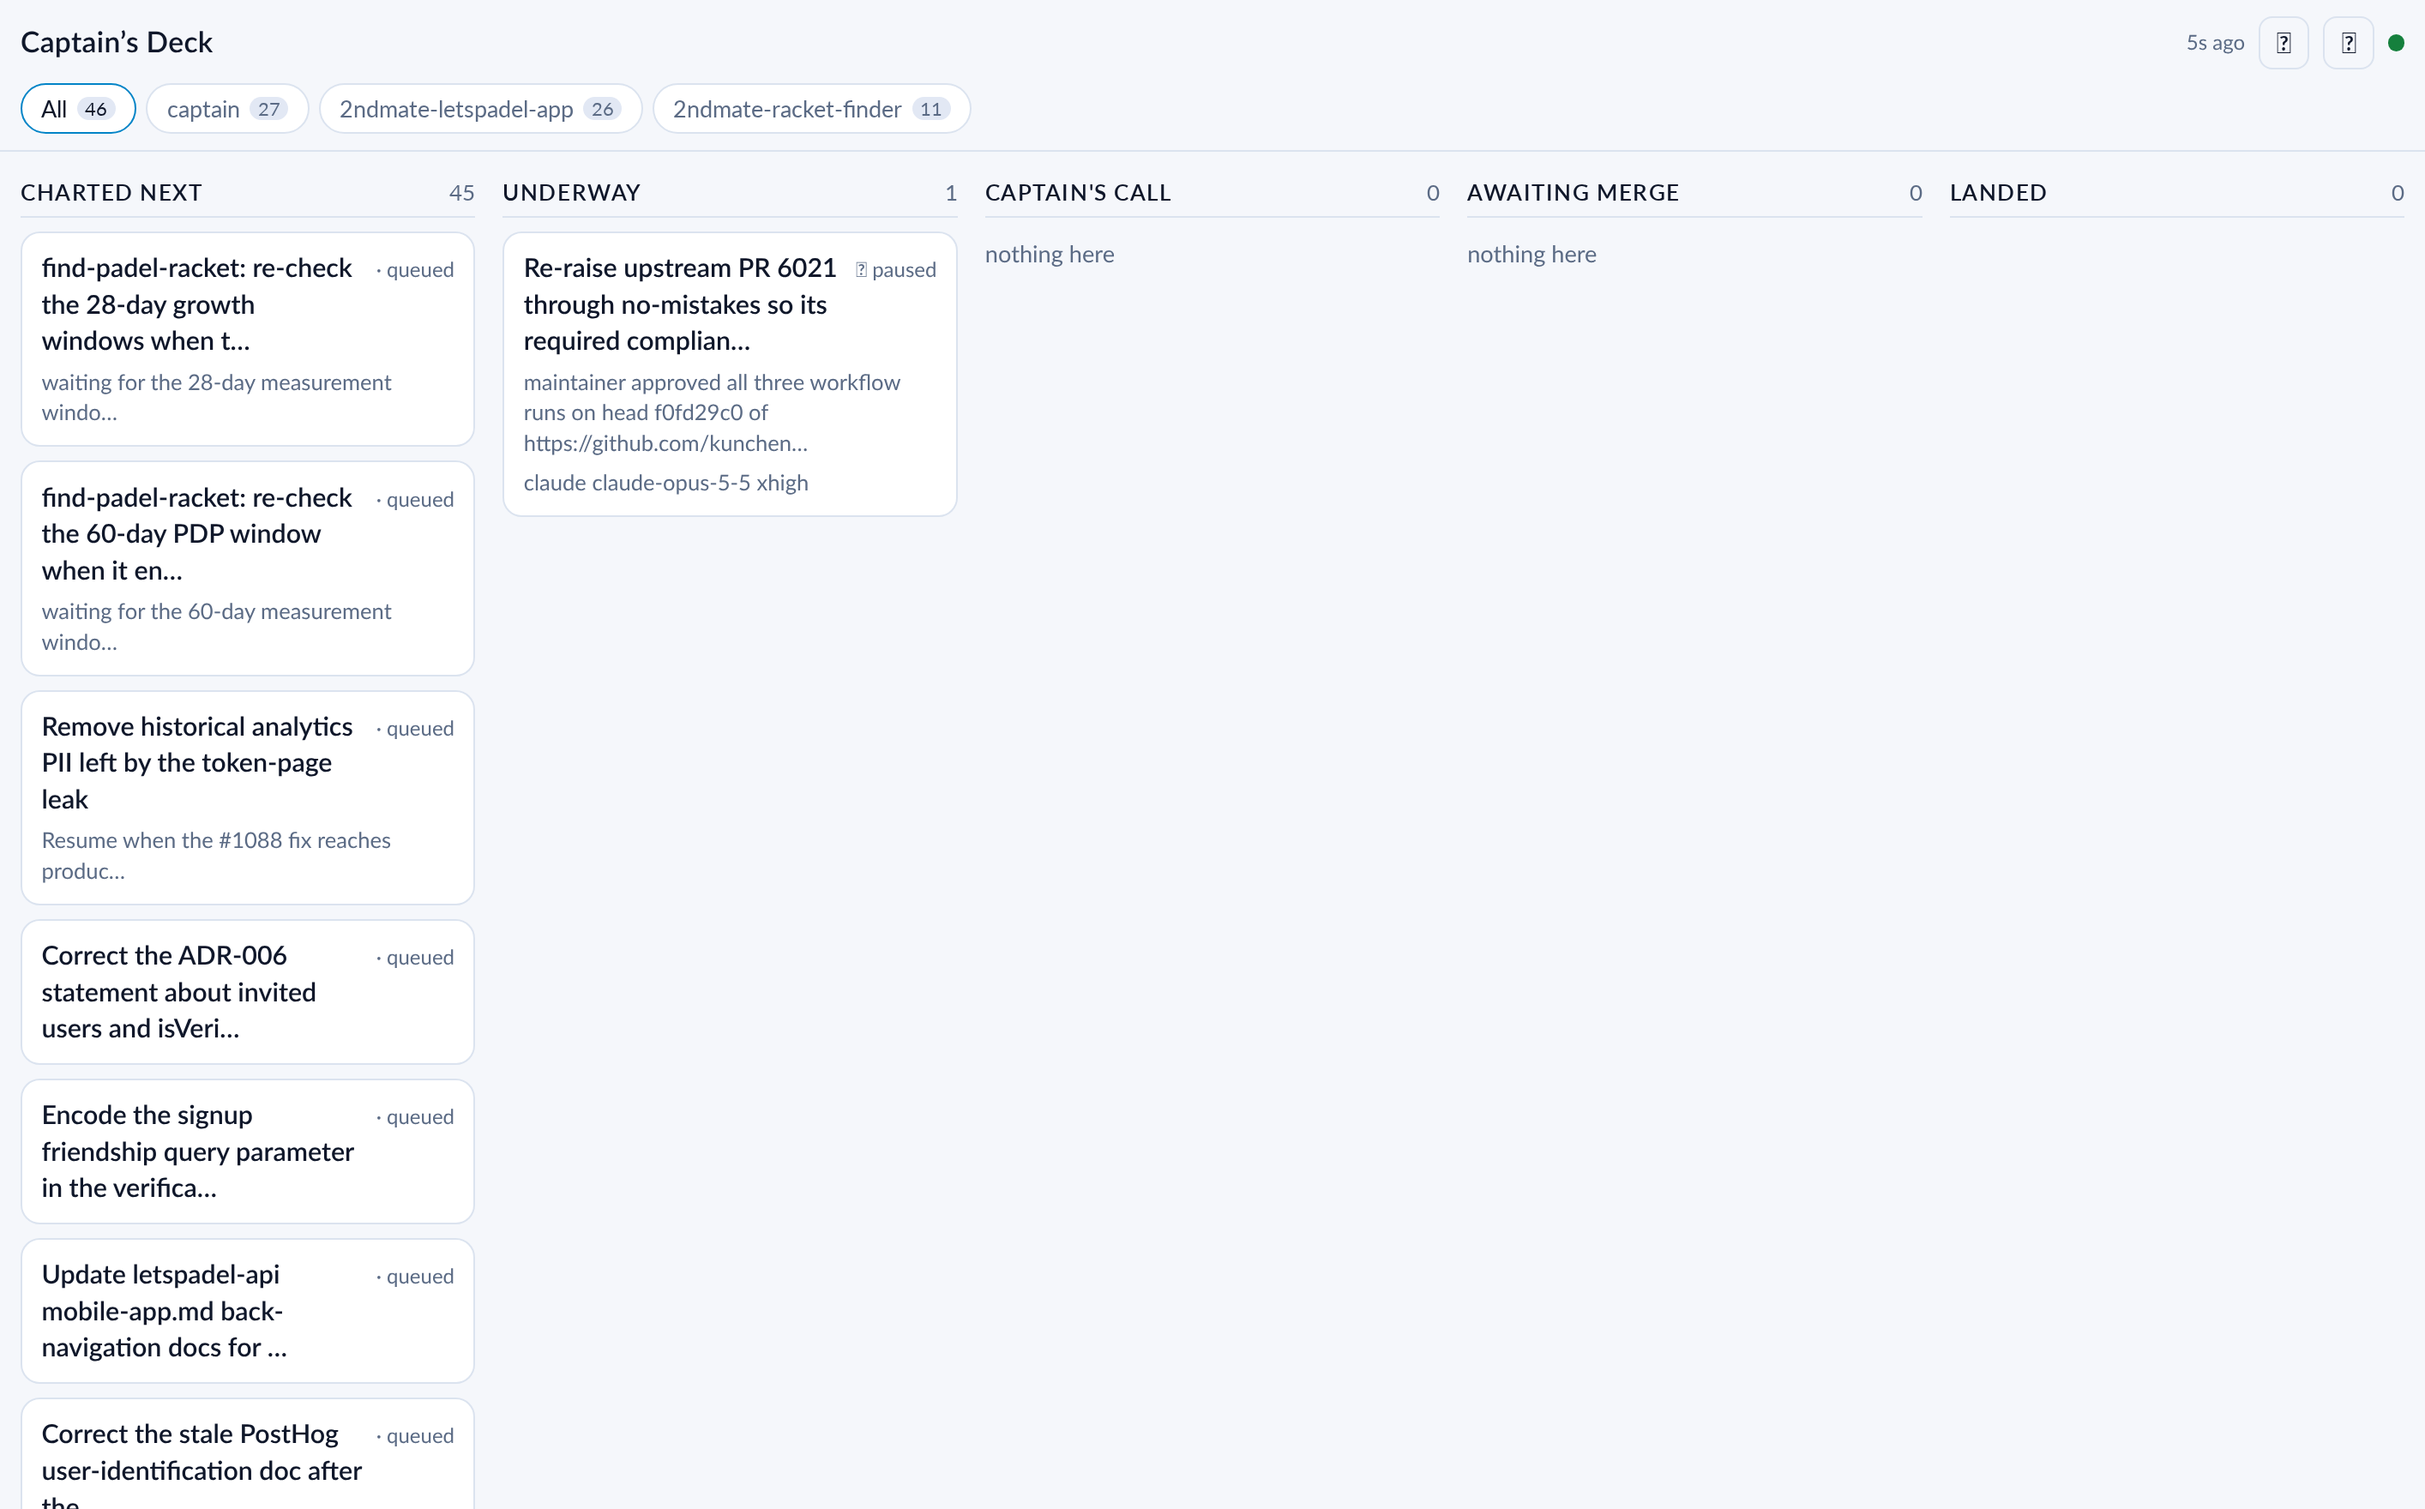
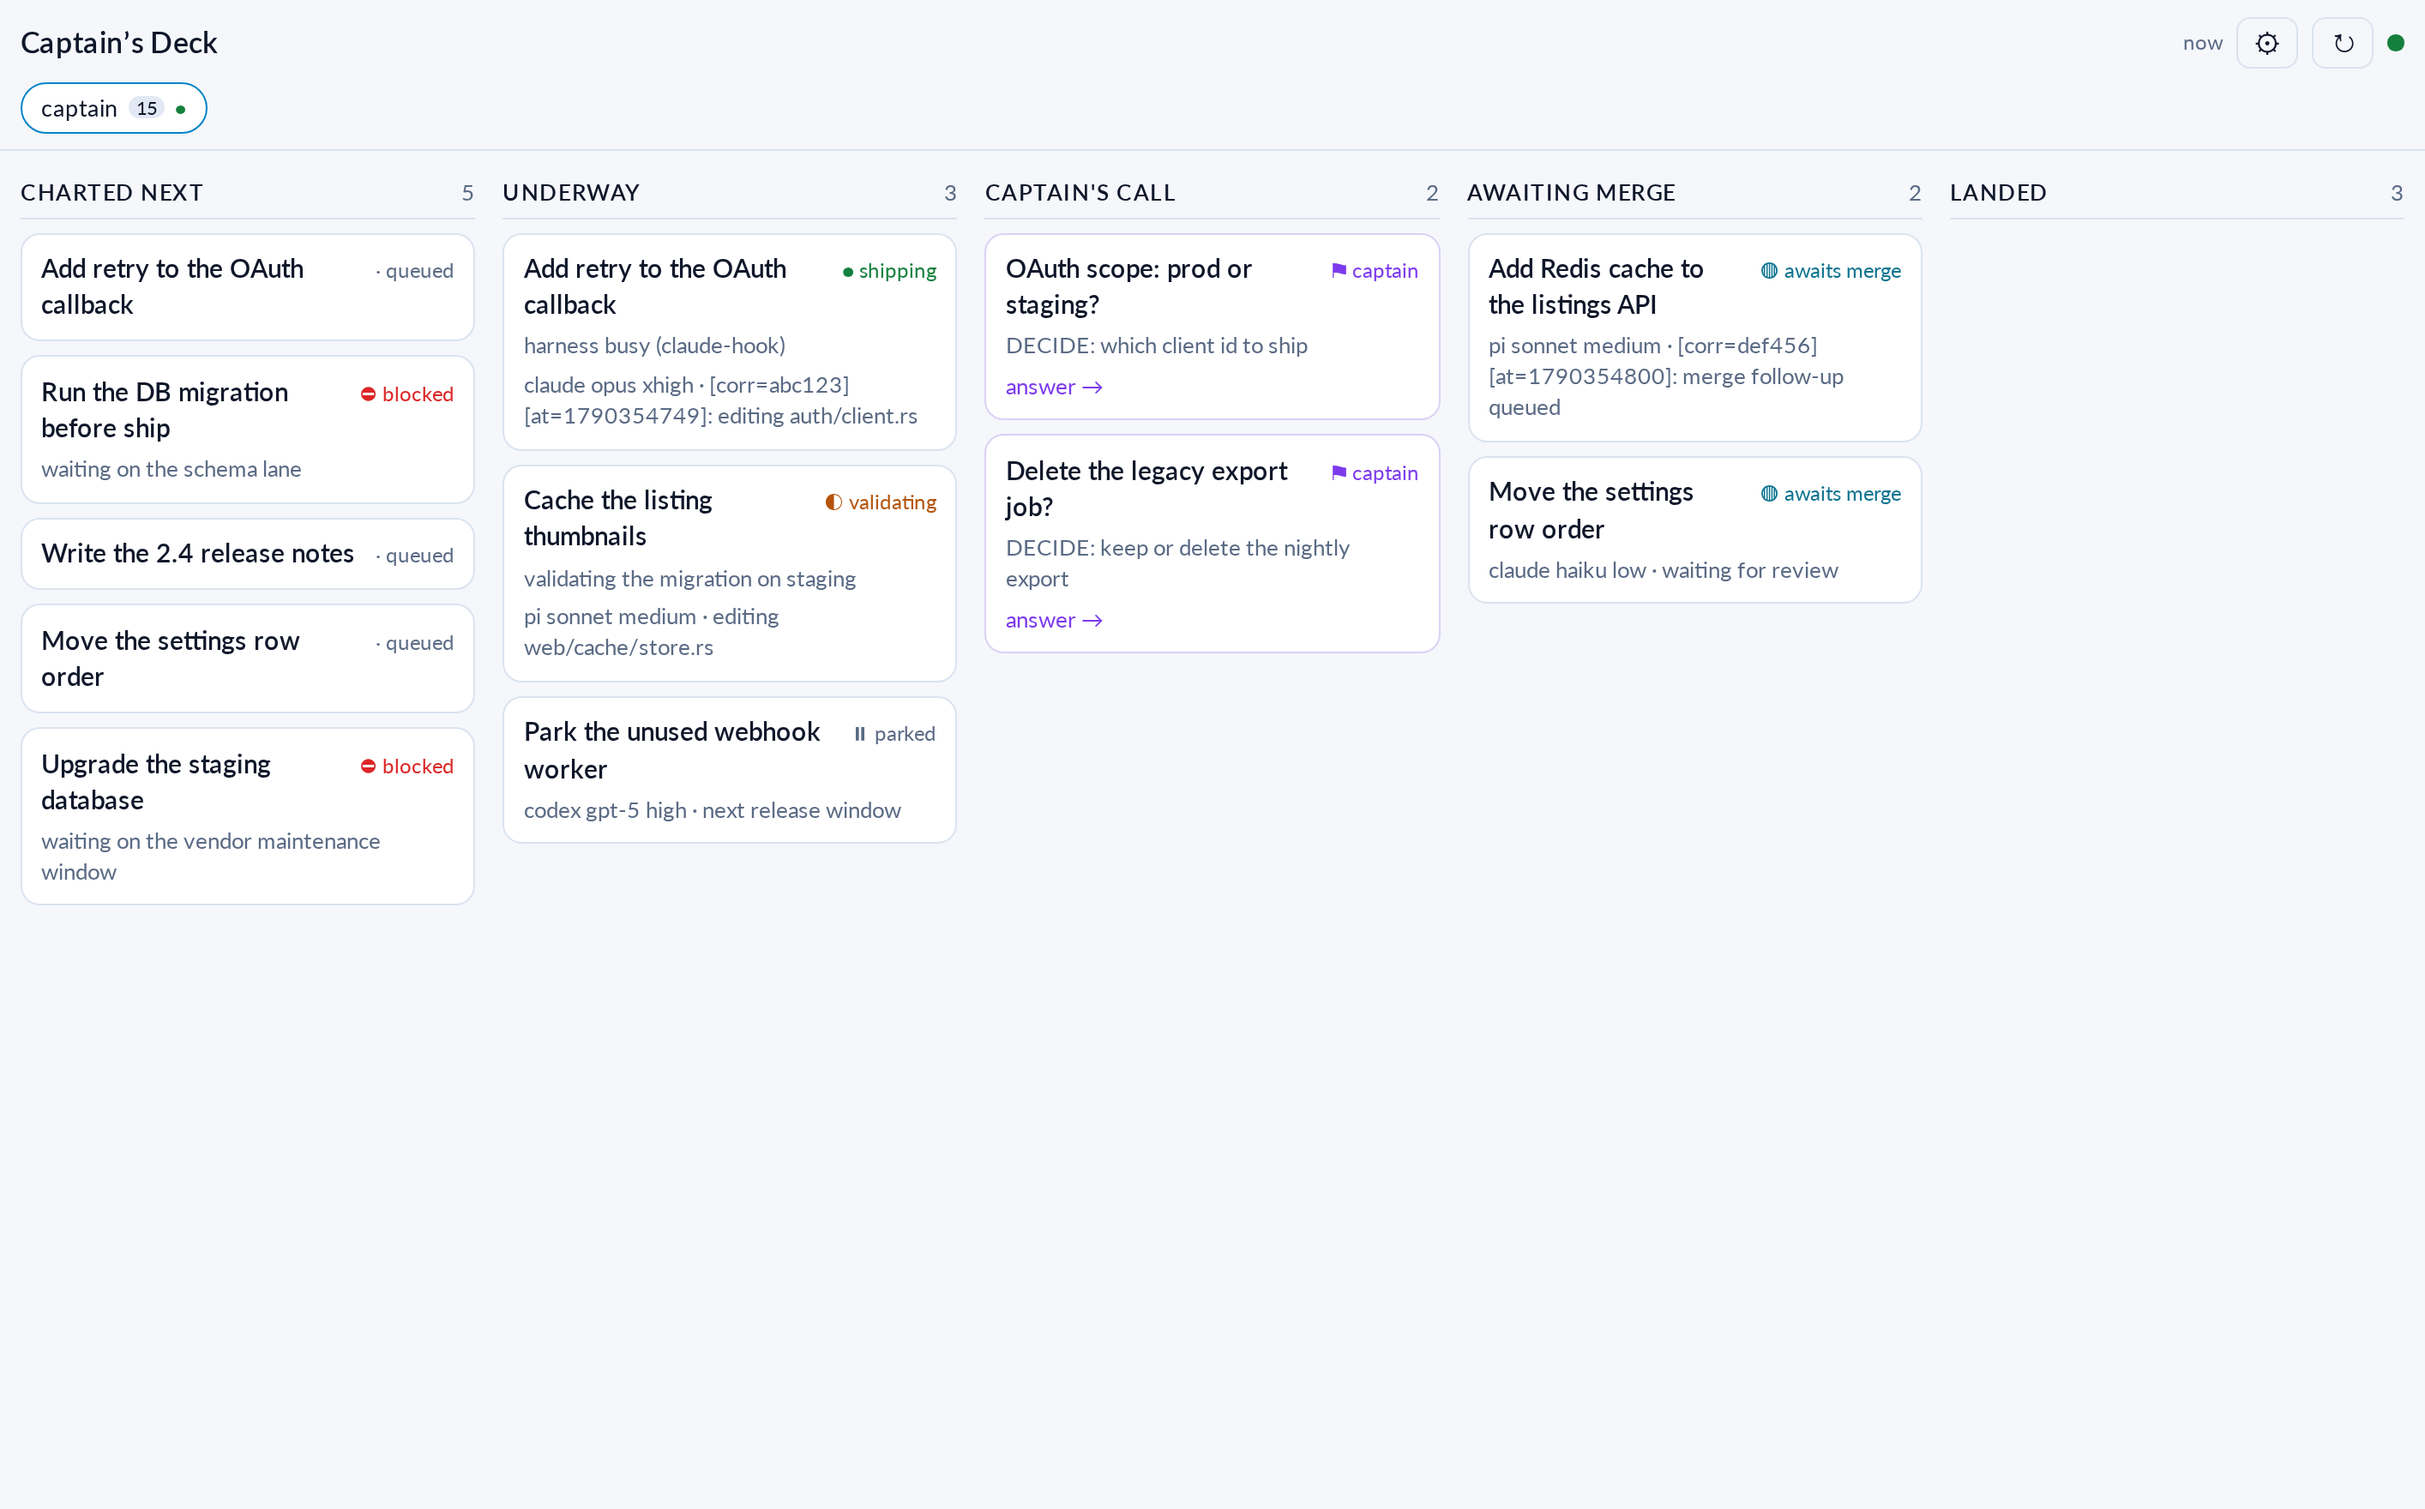
no-mistakes(review): Recapture README screenshots with demo data; drop card dedupe

diff --git a/web/static/app.js b/web/static/app.js
@@ -548,15 +548,6 @@ function cardNode(card, columnId) {
 
   if (card.doing) item.append(node("p", "card-doing", card.doing));
 
-  // A card whose status repeats its doing line must not show the paragraph
-  // twice. The doing text is truncated with an ellipsis, so the comparison
-  // uses the head of it.
-  function repeatsDoing(text) {
-    if (!card.doing || !text) return false;
-    const head = card.doing.replace(/\u2026$/, "").trim();
-    return head.length > 12 && (text.startsWith(head) || card.doing.startsWith(text));
-  }
-
   const meta = [];
   if (card.owner && card.owner !== "(main)") meta.push(card.owner);
   const agent = [card.agent, card.model, card.effort].filter(Boolean).join(" ");
@@ -567,7 +558,7 @@ function cardNode(card, columnId) {
     );
   }
   if (card.run_tokens) meta.push(card.run_tokens);
-  if (card.status_text && !repeatsDoing(card.status_text)) meta.push(card.status_text);
+  if (card.status_text) meta.push(card.status_text);
   if (meta.length) item.append(node("p", "card-meta", meta.join(" · ")));
 
   if (answerable) {

diff --git a/web/static/styles.css b/web/static/styles.css
@@ -305,8 +305,6 @@ body {
   color: var(--dim);
   font-size: 0.8rem;
   margin: 0.3rem 0 0;
-  /* A long URL in a status line must wrap inside the card, not spill out. */
-  overflow-wrap: anywhere;
 }
 
 .card-cta {
